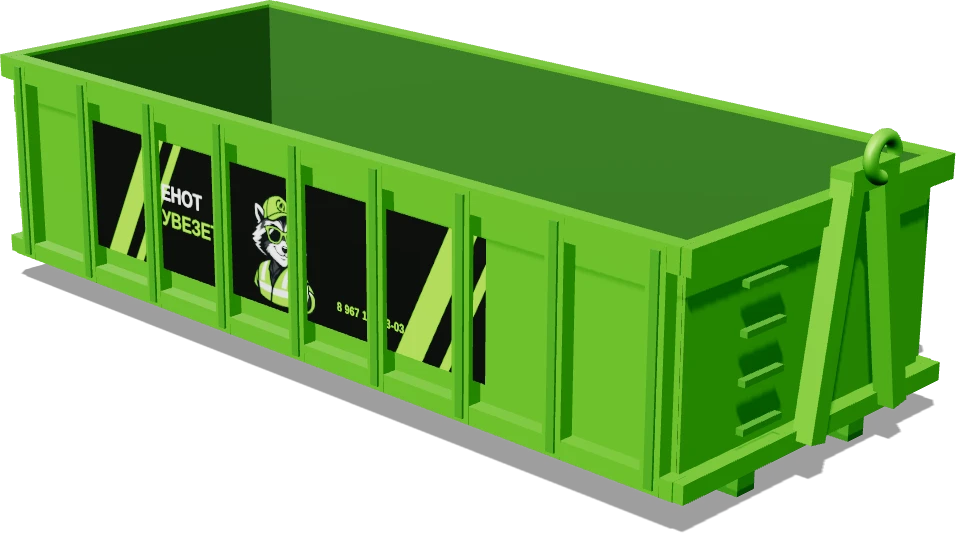
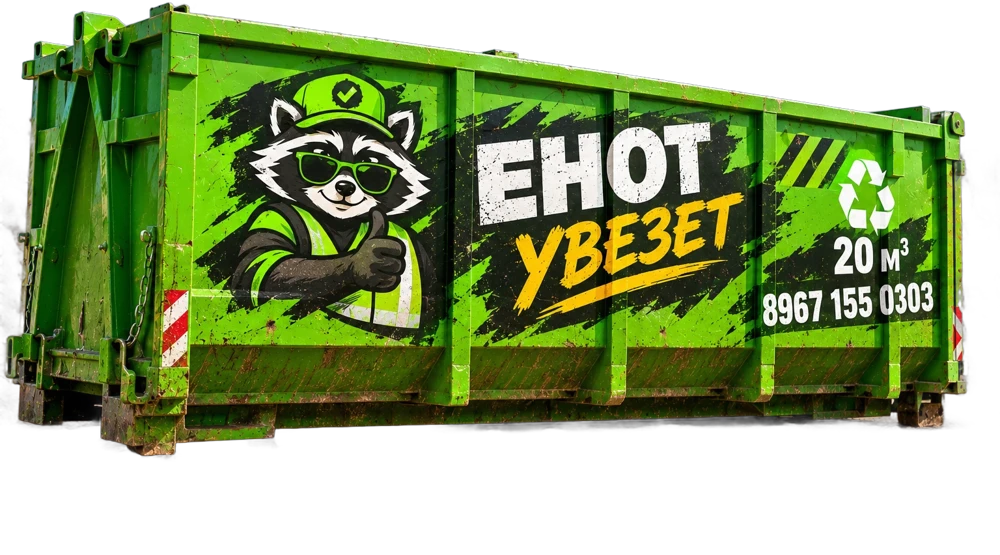
Настоящие фото контейнеров 8, 20, 27 м³
Claude-Session: https://claude.ai/code/session_0154CCb3k6UFQ6RFTibsu1wE

diff --git a/CONTENT.md b/CONTENT.md
@@ -40,7 +40,7 @@
 - 20 м³ «Средний», метка «Берут чаще»: капремонт дома или офиса, демонтаж под чистовую отделку; ≈ 6,0 × 2,3 × 1,5 м (c20.webp).
 - 27 м³ «Большой»: снос постройки, крупный объект, расчистка участка; ≈ 6,0 × 2,4 × 1,9 м (c27.webp).
 - У каждой карточки кнопка «Узнать цену» (звонок).
-- Картинки — 3D-рендеры в фирменных цветах по формам из примера владельца. Картинка не должна перекрывать текст.
+- Картинки — фото контейнеров владельца с брендингом «Енот Увезет» (фон вырезан). Картинка не должна перекрывать текст.
 
 ## 5. Заявка за минуту
 - Подзаголовок: «Ответьте на три вопроса. Мы подберём контейнер и подготовим сообщение, вам останется его отправить.»
